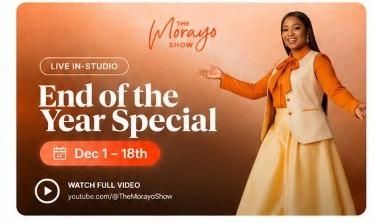
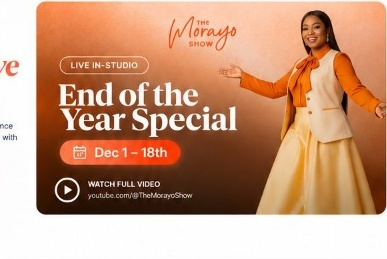
feat: add custom hero images and conditional seasonal landing view

diff --git a/src/components/seasonal/SeasonalLanding.tsx b/src/components/seasonal/SeasonalLanding.tsx
@@ -44,6 +44,7 @@ export const SeasonalLanding: React.FC<SeasonalLandingProps> = ({
 
 
   const seasonalConfig = hall.seasonalConfig;
+  const hasCustomHeroImage = Boolean(hall.seasonalConfig?.heroImageUrl || hall.featureImage);
 
   // Fallback default packages matching the festive season tiers
   const defaultPackages: IEventPackage[] = [
@@ -203,44 +204,59 @@ export const SeasonalLanding: React.FC<SeasonalLandingProps> = ({
                 }}
               />
 
-              {/* Dynamic Overlay Badges (subtle gradient overlay) */}
-              <div className="absolute inset-0 bg-gradient-to-t from-black/75 via-transparent to-black/30 pointer-events-none" />
+              {hasCustomHeroImage ? (
+                <>
+                  <div className="absolute inset-0 bg-gradient-to-t from-black/75 via-transparent to-black/30 pointer-events-none" />
 
-              <div className="absolute top-4 left-4 flex items-center gap-2">
-                <span className="bg-black/60 backdrop-blur-md text-white text-[10px] sm:text-xs font-semibold px-3 py-1 rounded-full uppercase tracking-wider border border-white/10">
-                  Live in-Studio
-                </span>
-              </div>
-
-              <div className="absolute top-12 sm:top-14 left-4 max-w-[200px]">
-                <h3 className="text-xl sm:text-2xl font-['Fraunces',_serif] font-bold text-white drop-shadow-sm leading-tight">
-                  End of the Year Special
-                </h3>
-                <div className="inline-flex items-center gap-1.5 bg-[#E8593C] text-white text-xs font-semibold px-3 py-1 rounded-full mt-2 shadow-sm">
-                  <Calendar className="w-3 h-3" />
-                  <span>{formatDateShort(hall.reservationOpenDate, hall.reservationCloseDate)}</span>
-                </div>
-              </div>
-
-              {/* Bottom Video Link Callout */}
-              <a
-                href="https://www.youtube.com/@morayoafolabibrownoffcial"
-                target="_blank"
-                rel="noreferrer"
-                className="absolute bottom-4 left-4 right-4 flex items-center gap-3 text-white group/play"
-              >
-                <div className="w-10 h-10 rounded-full bg-white/20 backdrop-blur-md border border-white/60 flex items-center justify-center shrink-0 group-hover/play:scale-110 group-hover/play:bg-[#E8593C] group-hover/play:border-[#E8593C] transition-all">
-                  <Play className="w-4 h-4 fill-white text-white ml-0.5" />
-                </div>
-                <div>
-                  <div className="text-xs font-bold uppercase tracking-wider text-white">
-                    Watch Full Video
+                  <div className="absolute top-4 left-4 flex items-center gap-2">
+                    <span className="bg-black/60 backdrop-blur-md text-white text-[10px] sm:text-xs font-semibold px-3 py-1 rounded-full uppercase tracking-wider border border-white/10">
+                      Live in-Studio
+                    </span>
                   </div>
-                  <div className="text-[11px] text-white/80 font-mono">
-                    youtube.com/@morayoafolabibrownoffcial
+
+                  <div className="absolute top-12 sm:top-14 left-4 max-w-[200px]">
+                    <h3 className="text-xl sm:text-2xl font-['Fraunces',_serif] font-bold text-white drop-shadow-sm leading-tight">
+                      End of the Year Special
+                    </h3>
+                    <div className="inline-flex items-center gap-1.5 bg-[#E8593C] text-white text-xs font-semibold px-3 py-1 rounded-full mt-2 shadow-sm">
+                      <Calendar className="w-3 h-3" />
+                      <span>{formatDateShort(hall.reservationOpenDate, hall.reservationCloseDate)}</span>
+                    </div>
                   </div>
-                </div>
-              </a>
+
+                  <a
+                    href="https://www.youtube.com/@morayoafolabibrownoffcial"
+                    target="_blank"
+                    rel="noreferrer"
+                    className="absolute bottom-4 left-4 right-4 flex items-center gap-3 text-white group/play"
+                  >
+                    <div className="w-10 h-10 rounded-full bg-white/20 backdrop-blur-md border border-white/60 flex items-center justify-center shrink-0 group-hover/play:scale-110 group-hover/play:bg-[#E8593C] group-hover/play:border-[#E8593C] transition-all">
+                      <Play className="w-4 h-4 fill-white text-white ml-0.5" />
+                    </div>
+                    <div>
+                      <div className="text-xs font-bold uppercase tracking-wider text-white">
+                        Watch Full Video
+                      </div>
+                      <div className="text-[11px] text-white/80 font-mono">
+                        youtube.com/@morayoafolabibrownoffcial
+                      </div>
+                    </div>
+                  </a>
+                </>
+              ) : (
+                <a
+                  href="https://www.youtube.com/@TheMorayoShow"
+                  target="_blank"
+                  rel="noreferrer"
+                  className="absolute inset-0 z-10 flex items-end p-4 bg-gradient-to-t from-black/40 via-transparent to-transparent opacity-0 group-hover:opacity-100 transition-opacity"
+                  title="Watch The Morayo Show on YouTube"
+                >
+                  <span className="text-white text-xs font-semibold flex items-center gap-1.5 bg-black/60 backdrop-blur-md px-3 py-1.5 rounded-full border border-white/20">
+                    <Play className="w-3.5 h-3.5 fill-white text-white" />
+                    Watch on YouTube
+                  </span>
+                </a>
+              )}
             </div>
           </div>
         </div>

diff --git a/src/pages/HomePage.tsx b/src/pages/HomePage.tsx
@@ -18,12 +18,12 @@ const HomePage = () => {
         queryFn: () => HallService.getHalls(),
     });
 
+
     const seasonalHall = halls?.find((h) => h.isActive && h.seasonalConfig?.isEnabled);
 
-    // If ?e=standard or ?e=tour, show standard schedule.
-    // If ?e=festive or no param (when seasonalHall is active), show festive view.
-    const isStandard = eventParam === "standard" || eventParam === "tour";
-    const showSeasonal = !isLoading && !!seasonalHall && !isStandard;
+    // By default, the standard schedule is active.
+    // The festive landing page is shown only when ?e=festive (or ?e=seasonal).
+    const showSeasonal = !isLoading && !!seasonalHall && (eventParam === "festive" || eventParam === "seasonal");
 
     const handleSwitchToStandard = () => {
         setSearchParams((prev) => {
@@ -39,6 +39,13 @@ const HomePage = () => {
             next.set("e", "festive");
             return next;
         });
+    };
+
+    const scrollToTours = () => {
+        const el = document.getElementById("tours");
+        if (el) {
+            el.scrollIntoView({ behavior: "smooth" });
+        }
     };
 
     // If seasonal mode is enabled and user hasn't explicitly clicked to view standard schedule,
@@ -68,27 +75,25 @@ const HomePage = () => {
 
     return (
         <div className="min-h-screen bg-morayo-bg text-morayo-ink antialiased font-sans text-[14px] leading-[1.5] pt60px]">
+             {/* Top Announcement Bar when Festive Season is live */}
+            {seasonalHall && (
+                <div className="bg-[#FFF4F0] border-b border-[#FCD8CF] px-6 py-2.5 text-xs text-gray-800 flex items-center justify-between gap-4">
+                    <div className="flex items-center gap-2">
+                        <Sparkles className="w-3.5 h-3.5 text-[#E8593C]" />
+                        <span>Festive Season Packages are Live! Special packages for Individuals, Couples, and Companies with VIP perks.</span>
+                    </div>
+                    <button
+                        onClick={handleSwitchToFestive}
+                        className="text-xs font-semibold text-[#E8593C] hover:underline flex items-center gap-1 shrink-0"
+                    >
+                        View Festive Packages →
+                    </button>
+                </div>
+            )}
+
             <VirtualNavbar />
             <div className="min-h-screen bg-white text-gray-900 font-sans p-6 md:p-12 lg:p-20">
                 <div className="max-w-7xl mx-auto">
-                    {seasonalHall && (
-                        <div className="mb-8 p-4 bg-[#FFF4F0] border border-[#FCD8CF] rounded-2xl flex items-center justify-between gap-4 flex-wrap">
-                            <div className="flex items-center gap-3">
-                                <Sparkles className="w-5 h-5 text-[#E8593C]" />
-                                <div>
-                                    <span className="font-semibold text-gray-900">Festive Season Packages are Live!</span>
-                                    <p className="text-xs text-gray-600">Special packages for Individuals, Couples, and Companies with VIP perks.</p>
-                                </div>
-                            </div>
-                            <Button
-                                onClick={handleSwitchToFestive}
-                                className="bg-[#E8593C] hover:bg-[#e05a0b] text-white rounded-full text-xs px-5"
-                            >
-                                View Festive Packages
-                            </Button>
-                        </div>
-                    )}
-
                     <header className="mb-12">
                         <h1 className="text-4xl md:text-5xl font-serif font-bold text-black mb-4">
                             The Morayo Show Tour

diff --git a/src/components/Footer.tsx b/src/components/Footer.tsx
@@ -9,7 +9,7 @@ const Footer = ({ scrollToPackages }: { scrollToPackages?: () => void }) => {
     const handleNewsletterSubmit = (e: React.FormEvent) => {
         e.preventDefault();
         if (!newsletterEmail) return;
-        toast.success("Thank you for subscribing to show updates!");
+        toast.success("Subscription is coming soon!");
         setNewsletterEmail("");
     };
 
@@ -64,7 +64,7 @@ const Footer = ({ scrollToPackages }: { scrollToPackages?: () => void }) => {
                                     className="w-9 h-9 rounded-full border border-white/15 flex items-center justify-center text-gray-400 hover:text-white hover:border-white/50 transition-colors"
                                     aria-label="Twitter / X"
                                 >
-                                    <svg className="w-3.5 h-3.5 fill-currentColor" viewBox="0 0 24 24">
+                                    <svg className="w-3.5 h-3.5 fill-currentColor" fill="currentColor" viewBox="0 0 24 24">
                                         <path d="M18.244 2.25h3.308l-7.227 8.26 8.502 11.24H16.17l-5.214-6.817L4.99 21.75H1.68l7.73-8.835L1.254 2.25H8.08l4.713 6.231zm-1.161 17.52h1.833L7.084 4.126H5.117z" />
                                     </svg>
                                 </a>
@@ -85,7 +85,7 @@ const Footer = ({ scrollToPackages }: { scrollToPackages?: () => void }) => {
                                     className="w-9 h-9 rounded-full border border-white/15 flex items-center justify-center text-gray-400 hover:text-white hover:border-white/50 transition-colors"
                                     aria-label="TikTok"
                                 >
-                                    <svg className="w-3.5 h-3.5 fill-currentColor" viewBox="0 0 24 24">
+                                    <svg className="w-3.5 h-3.5 fill-currentColor" fill="currentColor" viewBox="0 0 24 24">
                                         <path d="M19.59 6.69a4.83 4.83 0 0 1-3.77-4.25V2h-3.45v13.67a2.89 2.89 0 0 1-5.2 1.74 2.89 2.89 0 0 1 2.31-4.64c.298-.002.595.042.88.13V9.4a6.33 6.33 0 0 0-1-.08A6.34 6.34 0 0 0 3 15.66a6.34 6.34 0 0 0 10.82 4.49 6.28 6.28 0 0 0 1.86-4.49V8.65a8.28 8.28 0 0 0 4.88 1.58v-3.5a4.83 4.83 0 0 1-.97-.04z" />
                                     </svg>
                                 </a>
